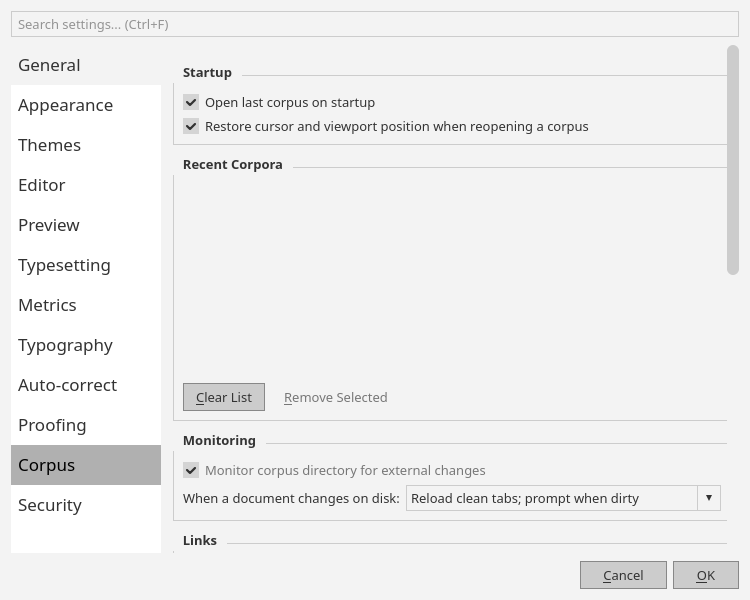
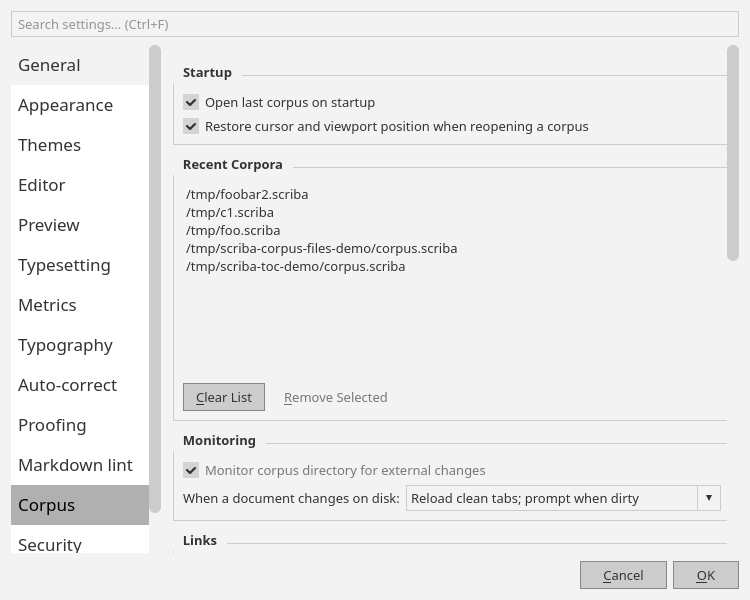
docs(gotchas): document TOC/frontmatter/md-lint/docx findings; refresh corpus prefs screenshot
Coordinator integration notes: TA-Lib indicator rules, DOCX export
templates, YAML frontmatter and toc-description, md-lint severity
migration, MD009 vs table padding, #WxH link-checker exemption, and the
md4c one-line-paragraph table constraint. Also drops degenerate
width="0" attributes on DOCX image import (192 vs 96 DPI EMU round-trip).

Changed region(s): [[0.0, 0.06, 0.2147, 0.93], [0.2453, 0.3, 0.6133, 0.45], [0.9507, 0.42, 1.0, 0.45]]

diff --git a/src/io/OoxmlConverter.cpp b/src/io/OoxmlConverter.cpp
@@ -675,9 +675,13 @@ QString Converter::image(QXmlStreamReader &r)
         images << img;
     }
     QString size;
-    if (cx > 0 && cy > 0)
-        size = QStringLiteral(" width=\"%1\" height=\"%2\"")
-                   .arg(qRound(cx / 9525.0)).arg(qRound(cy / 9525.0));
+    // EMUs at 96 DPI (9525/px). The exporter writes raster extents at 192 DPI
+    // (4762.5 EMU/px), so a 1px image lands at 4762 EMU = 0.5px here — round
+    // and drop the degenerate 0: a zero size attribute is never meaningful.
+    const int w = qRound(cx / 9525.0);
+    const int h = qRound(cy / 9525.0);
+    if (w > 0 && h > 0)
+        size = QStringLiteral(" width=\"%1\" height=\"%2\"").arg(w).arg(h);
     return QStringLiteral("<img src=\"docximg://%1\"%2 alt=\"\">").arg(rId, size);
 }
 

diff --git a/docs/gotchas.md b/docs/gotchas.md
@@ -399,6 +399,12 @@ attachment in `src/src/preview/MdRenderer.cpp`) and must satisfy a strict contra
   exactly. A directive written as plain text (without `<!-- -->`) is just prose
   and has no effect. Because it *is* a comment, it disappears from both the
   preview and the exported PDF — that invisibility is the acceptance test.
+- **Context-menu insertion.** The editor's "Insert Page Break" / "Keep
+  Together" context actions (`Editor::insertTypesettingDirective`) insert the
+  comment at the start of the current line and prepend a blank line when the
+  line above is non-blank, so the directive always forms its own block and
+  pins the block under the caret. The items are disabled inside fenced code
+  blocks, where the comment would be literal code text.
 
 **Why tokens instead of line numbers?** `MdRenderer::m_currentLine` is advanced
 only by `\n` in `MD_TEXT` callbacks; md4c does not emit a trailing softbreak for
@@ -1136,8 +1142,126 @@ date count (serialized as JSON `null`). `StockChartDialog::movingAverage` is
 gone — `Indicators::sma` is its exact replacement (parity pinned by
 test_indicators.cpp `SmaParityWithOldMovingAverage`).
 
-Future upgrade: TA-Lib (BSD-3-Clause) can replace the six functions with a
-one-file swap in `Indicators.cpp`. TA-Lib reports output via
-`outBegIdx`/`outNbElement` offsets rather than aligned NaN-prefixed arrays, so
-a small re-alignment adapter is needed; the public API and payload format stay
-unchanged.
+## Stock charts: indicators come from the vendored TA-Lib
+
+`Indicators.cpp` computes sma/ema/macd/rsi/boll via the vendored TA-Lib C
+library (`vendor/ta-lib/`, v0.7.1, BSD-3-Clause); KDJ is NOT a TA-Lib function
+(TA_STOCH smooths RSV with a finite SMA window — no 50-seed recursion, no J
+line), so `Indicators::kdj` wraps TA_STOCH for K/D and computes
+`J = 3K − 2D` locally. TA-Lib reports output via
+`outBegIdx`/`outNbElement` offsets rather than aligned NaN-prefixed arrays,
+so every call goes through a small adapter that re-aligns into the
+NaN-prefixed `inputSize` payload the engines expect (serialized as JSON
+`null`).
+
+Conventions adopted from TA-Lib (differ from the old hand-rolled math): MACD
+histogram = `macd − signal` with the DEA seeded from an SMA of the first
+`signal` MACD values; RSI returns 0.0 on a perfectly flat series; KDJ aligns
+from index 12 for the 9/3/3 params (RSV SMA lookback), MACD from index
+`(slow−1)+(signal−1)` = 33 for 12/26/9.
+
+This C TA-Lib is unrelated to the old `talib.wasm` (a JS engine, see the
+TradeX section above).
+
+## DOCX export styling (templates)
+
+- Without a user template, DOCX export's `styles.xml` comes from a fixed
+  default CSS constant (`kDefaultTemplateCss` in `DocxExporter.cpp`), NOT the
+  active theme — theme colors no longer reach DOCX styling by default. To get
+  theme colors into a DOCX, use Export→Word… → "Save current theme as
+  template", then export with that template. That bridge's color extraction
+  (`HtmlToOoxml::buildStylesXml`) is hex-only: themes using `rgb()`/`hsl()`/CSS
+  variables fall back to the hardcoded defaults in the generated template.
+- Template contract: the exported body references styleIds `Normal`,
+  `Heading1`..`Heading6`, `Quote`, `SourceCode`, `AdmonitionTitle{note,tip,
+  important,warning,caution}` and `AdmonitionText{...}`. Word's built-in latent
+  styles cover Heading/Quote even in templates that lack them, but SourceCode
+  and admonition styles render as Normal unless the template defines them —
+  Scriba-generated templates (save-as-template) always contain the full set.
+- The template owns page setup: when a template is selected the export dialog
+  disables landscape/margins/page-numbers, and the export keeps the template's
+  `<w:sectPr>` (page size, margins, header/footer references) verbatim —
+  headers, footers, backgrounds and title pages survive untouched.
+- Template merging: only `word/document.xml` body content and
+  `word/_rels/document.xml.rels` are touched; every other part (styles, theme,
+  settings, media, custom XML) is copied byte-identical. Scriba's media files
+  are remapped to non-colliding `word/media/imageN` names and its `rIdImageN`/
+  `rIdSvgN`/`rIdLinkN` rel ids are offset past any the template already
+  declares.
+
+## markdownLintConfig severity migration
+
+Config blobs written at `CurrentConfigVersion` 3 store boolean rule toggles
+with no per-rule severities; version 4 adds severities
+(`error`/`warning`/`off`). On startup the migration heals a v3 blob by
+re-deriving severities from the defaults. A deliberate-Error choice stored as
+bare `true` at version 3 is indistinguishable and resets to Warning once —
+the version bump means it can never happen again.
+
+## MD009 vs. table auto-alignment padding
+
+The auto-align formatter (`MdTable::formatMdTable`) writes end-of-row padding
+spaces in **borderless** tables (no trailing pipe): the last cell of a short
+row is right-padded to the column width, and empty rows end in `2*padding`
+spaces. The editor re-aligns on cursor-leave, so the spaces are re-inserted
+the moment the user removes them — flagging them (MD009, `br_spaces: 0` in
+the scriba preset) would be an unfixable, self-inflicted warning.
+
+MD009 therefore exempts interior trailing whitespace in table rows: only
+whitespace that sits *after* the row's final border pipe (`| a | b | `)
+flags. Borderless rows, padding before the pipe, and padding before an
+escaped pipe (`\|`) never flag. Set the MD009 `tables` param to `true` to
+restore strict table checking (markdownlint's own behavior; its default
+`br_spaces: 2` usually swallows single padding spaces anyway).
+
+## Link checker: `#WxH` image size suffixes are not heading anchors
+
+The `#WxH` suffix (`![alt](image.svg#150x120)`, also `#400x`/`#x300`) is an
+image size directive, not an anchor — `MdRenderer::parseDimensions` strips
+it from image srcs. The broken-link checker (`SpellHighlighter::
+scanLinkHits`) would otherwise report "Heading not found: #150x120", because
+the file exists and only the fragment fails the heading-slug match.
+
+The anchor check (`headingMessage`) therefore skips any fragment matching
+`^\d*x\d*$` — on images *and* text links alike, since the two are
+indistinguishable at the regex level (and a heading literally named
+`150x120` is a corner case worth accepting). The file-existence check still
+runs: `![alt](missing.svg#150x120)` reports "File not found". Uppercase
+`150X120` is not exempt, matching the renderer's lowercase-`x` syntax.
+
+Imports restore the sizes too: the turndown `image` rule override
+(`HtmlToMarkdown::convert`) reads explicit sizes — inline `style`
+(`width`/`height` for SVG, `max-width`/`max-height` caps for raster) or
+`width`/`height` attributes (DOCX imports) — and re-emits the
+`#WxH`/`#Wx`/`#xH` suffix, so exporting a sized image and importing the
+HTML back keeps its size. Only integer px are honored; percentages,
+`auto` and fractional values import unsized.
+
+## YAML frontmatter: detection, stripping, and the `toc-description` key
+
+Scriba treats a **leading `--- … ---` block** (YAML-only) as frontmatter,
+detected by `FrontMatterParser::lineRange` (`src/FrontMatterParser.cpp`): the
+first non-empty line must start with `---`, and a later line starting with
+`---` closes the block. Detection is **line-based and content-agnostic** —
+`---\n---` (an empty block) IS frontmatter, while a **lone `---`** (no closer)
+is NOT and stays an HR, matching CommonMark. Blank lines before the opener are
+skipped, but once document text precedes the opener it is not frontmatter.
+
+The preview/export pipeline strips frontmatter via **blank-line padding**
+(`FrontMatterParser::blankOut`): the block's lines are replaced with empty
+strings, not deleted, so the line count is preserved and md4c still emits
+per-line `data-line` attributes that keep scroll-sync and click-navigation
+aligned with the editor (blank lines emit no HTML). A doc whose frontmatter is
+`3` lines long therefore renders its first heading on `data-line="4"`.
+
+`FrontMatterParser::tocInfo` reads the scalar-only `toc-description:` key
+(matching surrounding single/double quotes stripped; `|`/`>` block scalars are
+out of scope). `CorpusIndex::extractHeadings` skips the frontmatter range — a
+YAML `# comment` would otherwise surface as a spurious TOC heading.
+
+Three deliberately separate frontmatter implementations coexist:
+`MdLintEngine::frontMatterRange` also detects TOML (`+++`) and JSON
+(`{...}`) and is lint-specific; `MermaidParser::stripFrontmatter` handles
+diagram fences; `FrontMatterParser` is the YAML-only shared parser for
+preview stripping and corpus TOC descriptions. Do not merge them casually —
+their detection conventions differ.
